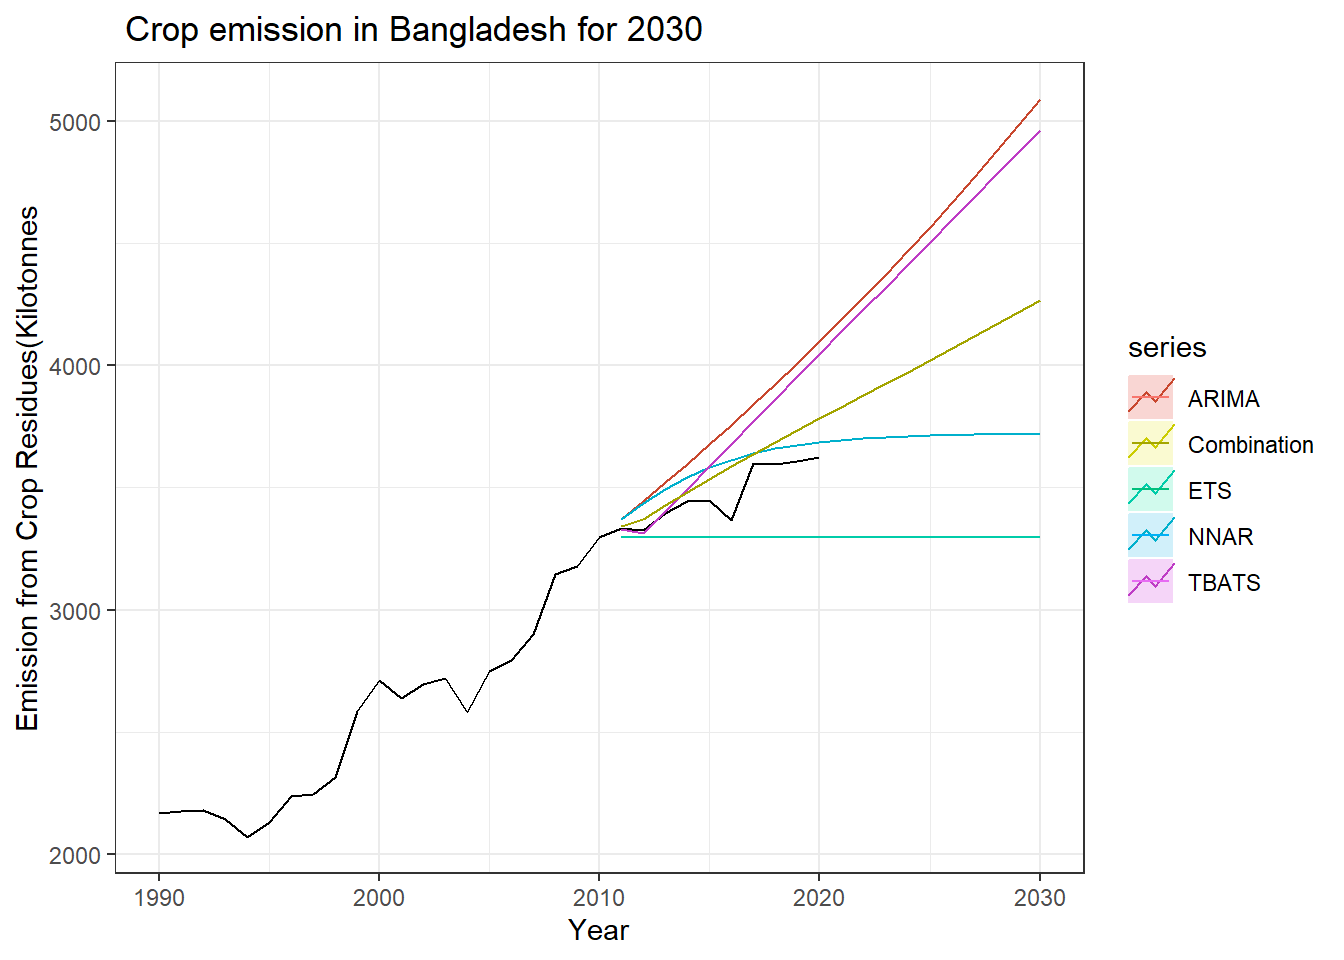
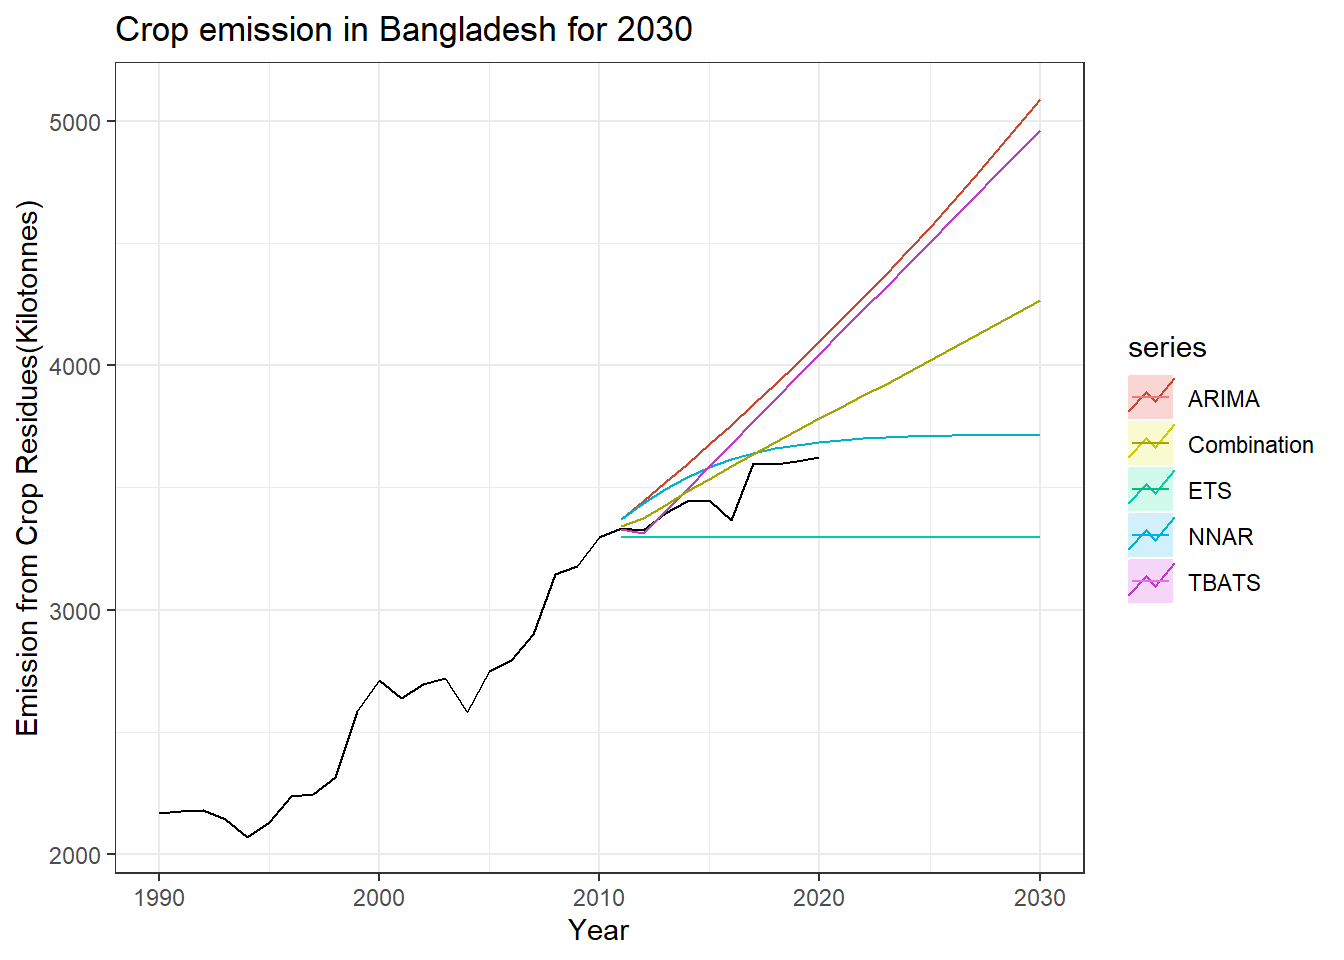
changes fixed

Changed region(s): [[0.0938, 0.0, 0.5312, 0.0625], [0.0, 0.2188, 0.0312, 0.7812]]

diff --git a/docs/posts/southAsia_crop/index.html b/docs/posts/southAsia_crop/index.html
@@ -687,8 +687,8 @@ pre > code.sourceCode > span > a:first-child::before { text-decoration: underlin
 <span id="cb25-4"><a href="#cb25-4" aria-hidden="true" tabindex="-1"></a>  <span class="fu">autolayer</span>(NNAR, <span class="at">series=</span><span class="st">"NNAR"</span>, <span class="at">PI=</span><span class="cn">FALSE</span>) <span class="sc">+</span></span>
 <span id="cb25-5"><a href="#cb25-5" aria-hidden="true" tabindex="-1"></a>  <span class="fu">autolayer</span>(TBATS, <span class="at">series=</span><span class="st">"TBATS"</span>, <span class="at">PI=</span><span class="cn">FALSE</span>) <span class="sc">+</span></span>
 <span id="cb25-6"><a href="#cb25-6" aria-hidden="true" tabindex="-1"></a>  <span class="fu">autolayer</span>(Combination, <span class="at">series=</span><span class="st">"Combination"</span>) <span class="sc">+</span></span>
-<span id="cb25-7"><a href="#cb25-7" aria-hidden="true" tabindex="-1"></a>  <span class="fu">xlab</span>(<span class="st">"Year"</span>) <span class="sc">+</span> <span class="fu">ylab</span>(<span class="st">"Emission from Crop Residues(Kilotonnes"</span>) <span class="sc">+</span></span>
-<span id="cb25-8"><a href="#cb25-8" aria-hidden="true" tabindex="-1"></a>  <span class="fu">ggtitle</span>(<span class="st">" Crop emission in Bangladesh for 2030"</span>)<span class="sc">+</span></span>
+<span id="cb25-7"><a href="#cb25-7" aria-hidden="true" tabindex="-1"></a>  <span class="fu">xlab</span>(<span class="st">"Year"</span>) <span class="sc">+</span> <span class="fu">ylab</span>(<span class="st">"Emission from Crop Residues(Kilotonnes)"</span>) <span class="sc">+</span></span>
+<span id="cb25-8"><a href="#cb25-8" aria-hidden="true" tabindex="-1"></a>  <span class="fu">ggtitle</span>(<span class="st">"Crop emission in Bangladesh for 2030"</span>)<span class="sc">+</span></span>
 <span id="cb25-9"><a href="#cb25-9" aria-hidden="true" tabindex="-1"></a>  <span class="fu">theme_bw</span>()</span></code><button title="Copy to Clipboard" class="code-copy-button"><i class="bi"></i></button></pre></div>
 </details>
 <div class="cell-output-display">

diff --git a/docs/posts.html b/docs/posts.html
@@ -193,7 +193,7 @@ Sujan Bhattarai
 </div>
 </a>
 </div>
-<div class="g-col-1" data-index="1" data-listing-file-modified-sort="1702607878482" data-listing-reading-time-sort="19">
+<div class="g-col-1" data-index="1" data-listing-file-modified-sort="1702609263165" data-listing-reading-time-sort="19">
 <a href="./posts/southAsia_crop/index.html" class="quarto-grid-link">
 <div class="quarto-grid-item card h-100 card-left">
 <p class="card-img-top"><img src="posts\southAsia_crop\index_files\figure-html\unnamed-chunk-5-1.png" style="height: 150px;"  class="thumbnail-image card-img"/></p>

diff --git a/docs/projects.html b/docs/projects.html
@@ -199,7 +199,7 @@ Sujan Bhattarai
 </a>
 </div>
 </div>
-<div class="quarto-post image-right" data-index="1" data-listing-file-modified-sort="1702607878482" data-listing-reading-time-sort="19">
+<div class="quarto-post image-right" data-index="1" data-listing-file-modified-sort="1702609263165" data-listing-reading-time-sort="19">
 <div class="thumbnail">
 <p><a href="./posts/southAsia_crop/index.html"> <p class="card-img-top"><img src="posts\southAsia_crop\index_files\figure-html\unnamed-chunk-5-1.png"  class="thumbnail-image card-img"/></p> </a></p>
 </div>

diff --git a/index.tex b/index.tex
@@ -1,0 +1,165 @@
+% Options for packages loaded elsewhere
+\PassOptionsToPackage{unicode}{hyperref}
+\PassOptionsToPackage{hyphens}{url}
+%
+\documentclass[
+]{article}
+\usepackage{amsmath,amssymb}
+\usepackage{iftex}
+\ifPDFTeX
+  \usepackage[T1]{fontenc}
+  \usepackage[utf8]{inputenc}
+  \usepackage{textcomp} % provide euro and other symbols
+\else % if luatex or xetex
+  \usepackage{unicode-math} % this also loads fontspec
+  \defaultfontfeatures{Scale=MatchLowercase}
+  \defaultfontfeatures[\rmfamily]{Ligatures=TeX,Scale=1}
+\fi
+\usepackage{lmodern}
+\ifPDFTeX\else
+  % xetex/luatex font selection
+\fi
+% Use upquote if available, for straight quotes in verbatim environments
+\IfFileExists{upquote.sty}{\usepackage{upquote}}{}
+\IfFileExists{microtype.sty}{% use microtype if available
+  \usepackage[]{microtype}
+  \UseMicrotypeSet[protrusion]{basicmath} % disable protrusion for tt fonts
+}{}
+\makeatletter
+\@ifundefined{KOMAClassName}{% if non-KOMA class
+  \IfFileExists{parskip.sty}{%
+    \usepackage{parskip}
+  }{% else
+    \setlength{\parindent}{0pt}
+    \setlength{\parskip}{6pt plus 2pt minus 1pt}}
+}{% if KOMA class
+  \KOMAoptions{parskip=half}}
+\makeatother
+\usepackage{xcolor}
+\usepackage[margin=1in]{geometry}
+\usepackage{color}
+\usepackage{fancyvrb}
+\newcommand{\VerbBar}{|}
+\newcommand{\VERB}{\Verb[commandchars=\\\{\}]}
+\DefineVerbatimEnvironment{Highlighting}{Verbatim}{commandchars=\\\{\}}
+% Add ',fontsize=\small' for more characters per line
+\usepackage{framed}
+\definecolor{shadecolor}{RGB}{248,248,248}
+\newenvironment{Shaded}{\begin{snugshade}}{\end{snugshade}}
+\newcommand{\AlertTok}[1]{\textcolor[rgb]{0.94,0.16,0.16}{#1}}
+\newcommand{\AnnotationTok}[1]{\textcolor[rgb]{0.56,0.35,0.01}{\textbf{\textit{#1}}}}
+\newcommand{\AttributeTok}[1]{\textcolor[rgb]{0.13,0.29,0.53}{#1}}
+\newcommand{\BaseNTok}[1]{\textcolor[rgb]{0.00,0.00,0.81}{#1}}
+\newcommand{\BuiltInTok}[1]{#1}
+\newcommand{\CharTok}[1]{\textcolor[rgb]{0.31,0.60,0.02}{#1}}
+\newcommand{\CommentTok}[1]{\textcolor[rgb]{0.56,0.35,0.01}{\textit{#1}}}
+\newcommand{\CommentVarTok}[1]{\textcolor[rgb]{0.56,0.35,0.01}{\textbf{\textit{#1}}}}
+\newcommand{\ConstantTok}[1]{\textcolor[rgb]{0.56,0.35,0.01}{#1}}
+\newcommand{\ControlFlowTok}[1]{\textcolor[rgb]{0.13,0.29,0.53}{\textbf{#1}}}
+\newcommand{\DataTypeTok}[1]{\textcolor[rgb]{0.13,0.29,0.53}{#1}}
+\newcommand{\DecValTok}[1]{\textcolor[rgb]{0.00,0.00,0.81}{#1}}
+\newcommand{\DocumentationTok}[1]{\textcolor[rgb]{0.56,0.35,0.01}{\textbf{\textit{#1}}}}
+\newcommand{\ErrorTok}[1]{\textcolor[rgb]{0.64,0.00,0.00}{\textbf{#1}}}
+\newcommand{\ExtensionTok}[1]{#1}
+\newcommand{\FloatTok}[1]{\textcolor[rgb]{0.00,0.00,0.81}{#1}}
+\newcommand{\FunctionTok}[1]{\textcolor[rgb]{0.13,0.29,0.53}{\textbf{#1}}}
+\newcommand{\ImportTok}[1]{#1}
+\newcommand{\InformationTok}[1]{\textcolor[rgb]{0.56,0.35,0.01}{\textbf{\textit{#1}}}}
+\newcommand{\KeywordTok}[1]{\textcolor[rgb]{0.13,0.29,0.53}{\textbf{#1}}}
+\newcommand{\NormalTok}[1]{#1}
+\newcommand{\OperatorTok}[1]{\textcolor[rgb]{0.81,0.36,0.00}{\textbf{#1}}}
+\newcommand{\OtherTok}[1]{\textcolor[rgb]{0.56,0.35,0.01}{#1}}
+\newcommand{\PreprocessorTok}[1]{\textcolor[rgb]{0.56,0.35,0.01}{\textit{#1}}}
+\newcommand{\RegionMarkerTok}[1]{#1}
+\newcommand{\SpecialCharTok}[1]{\textcolor[rgb]{0.81,0.36,0.00}{\textbf{#1}}}
+\newcommand{\SpecialStringTok}[1]{\textcolor[rgb]{0.31,0.60,0.02}{#1}}
+\newcommand{\StringTok}[1]{\textcolor[rgb]{0.31,0.60,0.02}{#1}}
+\newcommand{\VariableTok}[1]{\textcolor[rgb]{0.00,0.00,0.00}{#1}}
+\newcommand{\VerbatimStringTok}[1]{\textcolor[rgb]{0.31,0.60,0.02}{#1}}
+\newcommand{\WarningTok}[1]{\textcolor[rgb]{0.56,0.35,0.01}{\textbf{\textit{#1}}}}
+\usepackage{graphicx}
+\makeatletter
+\def\maxwidth{\ifdim\Gin@nat@width>\linewidth\linewidth\else\Gin@nat@width\fi}
+\def\maxheight{\ifdim\Gin@nat@height>\textheight\textheight\else\Gin@nat@height\fi}
+\makeatother
+% Scale images if necessary, so that they will not overflow the page
+% margins by default, and it is still possible to overwrite the defaults
+% using explicit options in \includegraphics[width, height, ...]{}
+\setkeys{Gin}{width=\maxwidth,height=\maxheight,keepaspectratio}
+% Set default figure placement to htbp
+\makeatletter
+\def\fps@figure{htbp}
+\makeatother
+\setlength{\emergencystretch}{3em} % prevent overfull lines
+\providecommand{\tightlist}{%
+  \setlength{\itemsep}{0pt}\setlength{\parskip}{0pt}}
+\setcounter{secnumdepth}{-\maxdimen} % remove section numbering
+\ifLuaTeX
+  \usepackage{selnolig}  % disable illegal ligatures
+\fi
+\IfFileExists{bookmark.sty}{\usepackage{bookmark}}{\usepackage{hyperref}}
+\IfFileExists{xurl.sty}{\usepackage{xurl}}{} % add URL line breaks if available
+\urlstyle{same}
+\hypersetup{
+  pdftitle={Sujan Bhattarai - Landing Page},
+  hidelinks,
+  pdfcreator={LaTeX via pandoc}}
+
+\title{Sujan Bhattarai - Landing Page}
+\author{}
+\date{\vspace{-2.5em}}
+
+\begin{document}
+\maketitle
+
+\hypertarget{ppc}{}
+Entrepreneurial and Innovative
+
+Analytical thinker with a passion for innovation. Committed to
+excellence and continuous improvement.
+
+\begin{Shaded}
+\begin{Highlighting}[]
+\NormalTok{\textless{}style}\OperatorTok{\textgreater{}}
+  \PreprocessorTok{\#tagline}\NormalTok{ \{}
+    \KeywordTok{animation}\NormalTok{: fadeInOut }\DecValTok{1}\DataTypeTok{s} \DecValTok{ease} \DecValTok{infinite}\OperatorTok{;}
+    \KeywordTok{color}\NormalTok{: }\ConstantTok{\#3498db}\OperatorTok{;} \CommentTok{/* Change color to your preference */}
+\NormalTok{  \}}
+
+  \PreprocessorTok{\#description}\NormalTok{ \{}
+    \KeywordTok{font{-}size}\NormalTok{: }\DecValTok{1.2}\DataTypeTok{em}\OperatorTok{;}
+    \KeywordTok{color}\NormalTok{: }\ConstantTok{\#555}\OperatorTok{;}
+    \KeywordTok{max{-}width}\NormalTok{: }\DecValTok{600}\DataTypeTok{px}\OperatorTok{;}
+    \KeywordTok{margin}\NormalTok{: }\DecValTok{0} \BuiltInTok{auto}\OperatorTok{;}
+\NormalTok{  \}}
+
+\NormalTok{  nav \{}
+    \KeywordTok{background{-}color}\NormalTok{: }\ConstantTok{\#2c3e50}\OperatorTok{;} \CommentTok{/* Change color to your preference */}
+    \KeywordTok{padding}\NormalTok{: }\DecValTok{1}\DataTypeTok{em}\OperatorTok{;}
+\NormalTok{  \}}
+
+\NormalTok{  nav a \{}
+    \KeywordTok{color}\NormalTok{: }\ConstantTok{\#ecf0f1}\OperatorTok{;} \CommentTok{/* Change color to your preference */}
+    \KeywordTok{margin}\NormalTok{: }\DecValTok{0} \DecValTok{1}\DataTypeTok{em}\OperatorTok{;}
+    \KeywordTok{text{-}decoration}\NormalTok{: }\DecValTok{none}\OperatorTok{;}
+    \KeywordTok{transition}\NormalTok{: color }\DecValTok{0.3}\DataTypeTok{s} \DecValTok{ease}\OperatorTok{;}
+\NormalTok{  \}}
+
+\NormalTok{  nav a}\InformationTok{:hover}\NormalTok{ \{}
+    \KeywordTok{color}\NormalTok{: }\ConstantTok{\#3498db}\OperatorTok{;} \CommentTok{/* Change color to your preference */}
+\NormalTok{  \}}
+
+  \ImportTok{@keyframes}\NormalTok{ fadeInOut \{}
+\NormalTok{    0\%}\OperatorTok{,}\NormalTok{ 100\% \{}
+      \KeywordTok{opacity}\NormalTok{: }\DecValTok{0}\OperatorTok{;}
+\NormalTok{    \}}
+\NormalTok{    50\% \{}
+      \KeywordTok{opacity}\NormalTok{: }\DecValTok{1}\OperatorTok{;}
+\NormalTok{    \}}
+\NormalTok{  \}}
+\NormalTok{\textless{}/style}\OperatorTok{\textgreater{}}
+\end{Highlighting}
+\end{Shaded}
+
+
+\end{document}
